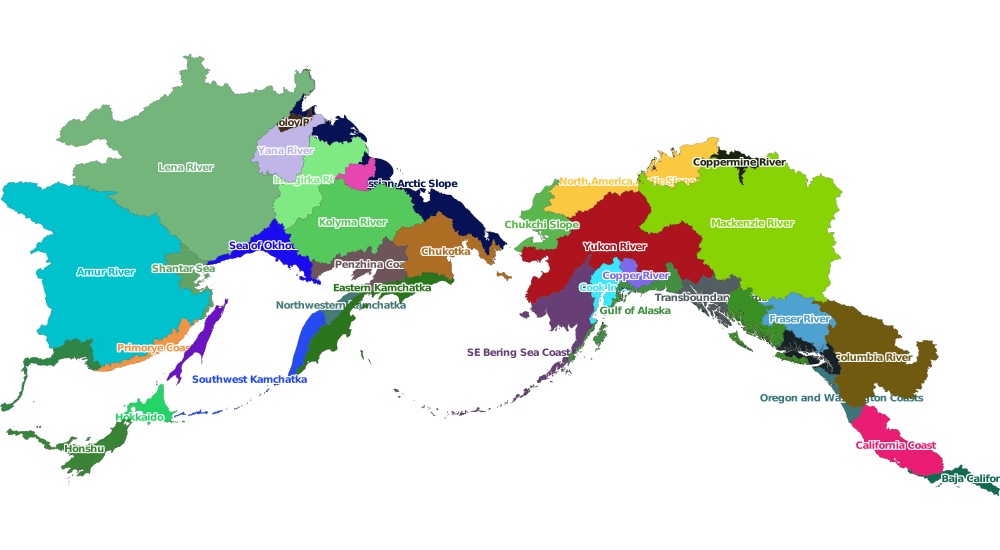
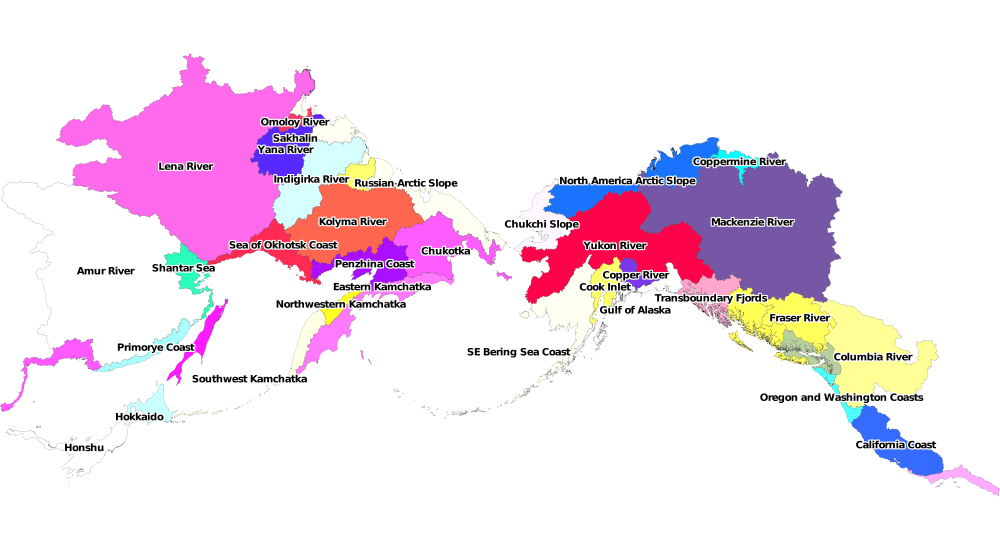
fix shapefile path and text

Changed region(s): [[0.0, 0.0927, 1.0, 0.9273], [0.496, 0.7109, 0.527, 0.7418]]

diff --git a/example_code/unique_values/unique_watersheds.py b/example_code/unique_values/unique_watersheds.py
@@ -25,21 +25,11 @@ def generate_unique_values(features):
         rgb = '%s%s,%s%s,%s%s' % (random_rgb(),'%',random_rgb(),'%',random_rgb(),'%')
         r.symbols.append(PolygonSymbolizer(Color('rgb(%s)' % rgb)))
         r.symbols.append(LineSymbolizer(Color('black'),.1))
-        # should eventually break this out so that the text is always on top
-        t = TextSymbolizer('ECOREGION', 'DejaVu Sans Bold', 10, Color('rgb(%s)' % rgb))
-        t.halo_fill = Color('white')
-        t.halo_radius = 1
-        r.symbols.append(t)
         s.rules.append(r)
   else:
       r=Rule()
       r.symbols.append(PolygonSymbolizer(Color('steelblue')))
       r.symbols.append(LineSymbolizer(Color('black'),.1))
-      # should eventually break this out so that the text is always on top
-      t = TextSymbolizer('ECOREGION', 'DejaVu Sans Bold', 10, Color('black'))
-      t.halo_fill = Color('white')
-      t.halo_radius = 1
-      r.symbols.append(t)
       s.rules.append(r)  
   return s
 
@@ -52,10 +42,21 @@ features = 37 # Mapnik will need to expose datasource properties to be able to r
 unique_style = generate_unique_values(features)
 
 m.append_style('Random RGB values',unique_style)
+
+# place in separate style, so that the text is always on top
+s,r = Style(),Rule()
+t = TextSymbolizer('ECOREGION', 'DejaVu Sans Bold', 10, Color('black'))
+t.halo_fill = Color('white')
+t.halo_radius = 1
+r.symbols.append(t)
+s.rules.append(r)  
+m.append_style('Labels',s)
+
 lyr = Layer('shape')
-lyr.datasource = Shapefile(file='../../sample_data/north_pacific_ecoregions')
+lyr.datasource = Shapefile(file='../../data/north_pacific_ecoregions')
 lyr.srs = north_pacific_albers
 lyr.styles.append('Random RGB values')
+lyr.styles.append('Labels')
 m.layers.append(lyr)
 m.zoom_to_box(lyr.envelope())
 
